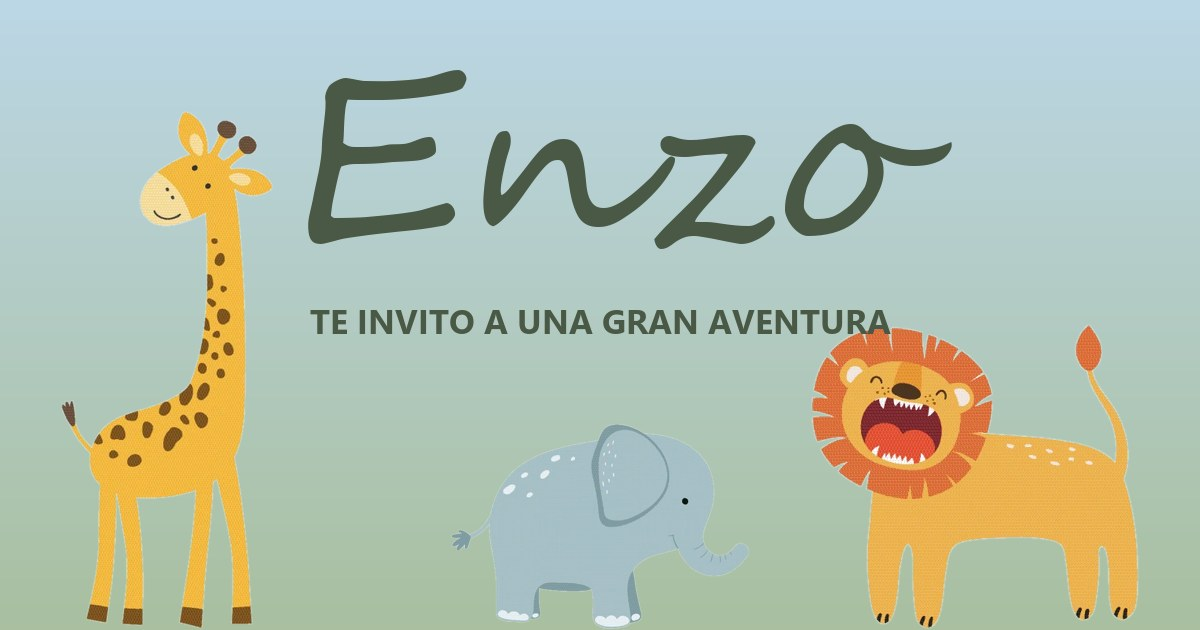
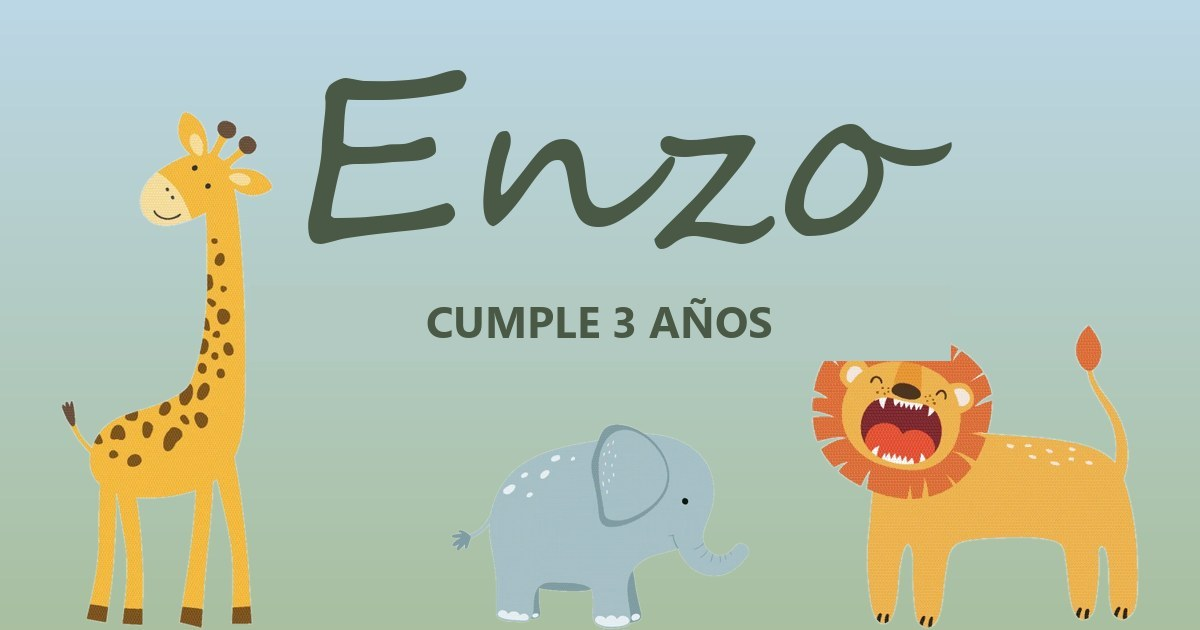
Add files via upload

Changed region(s): [[0.2467, 0.4825, 0.8017, 0.573]]

diff --git a/index.html b/index.html
@@ -2,12 +2,12 @@
 <html lang="es"><head><meta charset="utf-8">
 <meta name="viewport" content="width=device-width,initial-scale=1,viewport-fit=cover">
 <meta property="og:title" content="Cumple de Enzo">
-<meta property="og:description" content="Te invito a vivir una gran aventura salvaje">
+<meta property="og:description" content="Cumple 3 años">
 <meta property="og:image" content="https://motionabner.github.io/enzo-safari/og.jpg"><meta property="og:type" content="website">
 <style>html,body{margin:0}[hidden]{display:none!important}</style>
 <title>Cumple de Enzo</title>
 <meta name="claude:viewport-fit-sides" content="cover">
-<link rel="stylesheet" href="https://fonts.googleapis.com/css2?family=Yellowtail&family=Nunito:wght@400;600;800&display=swap">
+<link rel="stylesheet" href="https://fonts.googleapis.com/css2?family=Yellowtail&family=Nunito:wght@400;600;800&family=Fredoka:wght@600&display=swap">
 <style>
 /* Concept: safari boho. Cover with 3 poppable balloons, then a cream invitation with a balloon garland, tappable animals and pending details. */
 :root{
@@ -44,6 +44,13 @@ button{font:inherit;color:inherit;border:0;background:none;padding:0;cursor:poin
 .hero{position:relative;text-align:center;padding-top:20px}
 .garland{display:block;width:100%;height:auto;margin-bottom:-26px}
 .hero .sub{font-weight:800;letter-spacing:.2em;text-transform:uppercase;font-size:12px;color:var(--sage-deep);margin:0}
+.ywt{display:flex;flex-direction:column;align-items:center;line-height:1;margin-top:6px}
+.ywt .y{font:800 26px var(--body);letter-spacing:.28em;text-transform:uppercase;margin-right:-.28em}
+.ywt .w{font:400 clamp(44px,15vw,66px)/1 var(--script);margin:-2px 0 -6px}
+.ywt .three{font:600 clamp(64px,22vw,104px)/1 'Fredoka',var(--body);letter-spacing:.02em}
+.ywt i{font-style:normal}.ywt i:nth-child(1){color:#7FA3D1}.ywt i:nth-child(2){color:#6E8C69}.ywt i:nth-child(3){color:#D98B5F}.ywt i:nth-child(4){color:#E3B04B}.ywt i:nth-child(5){color:#D98B5F}
+.hero .lead{margin-top:18px}
+.hero h2{font-size:clamp(70px,24vw,112px);margin-top:2px}
 .hero h2{font:400 clamp(88px,30vw,150px)/.95 var(--script);margin:4px 0 0;color:var(--ink)}
 .hero .lead{font-size:18px;margin:8px auto 0;max-width:30ch;line-height:1.45}
 .scene{width:100%;margin:18px auto 0}
@@ -93,7 +100,7 @@ canvas#fx{position:fixed;inset:0;width:100%;height:100%;z-index:30;pointer-event
   <img class="palms" src="palms.webp" alt="">
   <img class="monkey" src="monkey.webp" alt="">
   <h1>Enzo</h1>
-  <p>Una aventura te espera</p>
+  <p>Cumple 3 años</p>
   <div class="balloons" id="balloons"></div>
   <div class="hint" id="hint">Toca los 3 globos</div>
 </section>
@@ -104,9 +111,13 @@ canvas#fx{position:fixed;inset:0;width:100%;height:100%;z-index:30;pointer-event
     <img class="rainbow" src="rainbow.webp" alt="">
     <img class="bird" src="bird.webp" alt="">
     <img class="hmonkey" src="monkey.webp" alt="Mono colgado">
-    <p class="sub">Te invito al cumpleaños de</p>
+    <div class="ywt">
+      <span class="y">Young</span>
+      <span class="w">wild &amp;</span>
+      <span class="three" aria-label="Three"><i>T</i><i>H</i><i>R</i><i>E</i><i>E</i></span>
+    </div>
+    <p class="lead">Acompáñanos a celebrar el cumpleaños de</p>
     <h2>Enzo</h2>
-    <p class="lead">Ven a vivir una gran aventura salvaje con nosotros.</p>
     <img class="scene" src="scene.webp" alt="Jirafa, león, cebra, elefante, tigre, cocodrilo e hipopótamo">
   </header>
 
